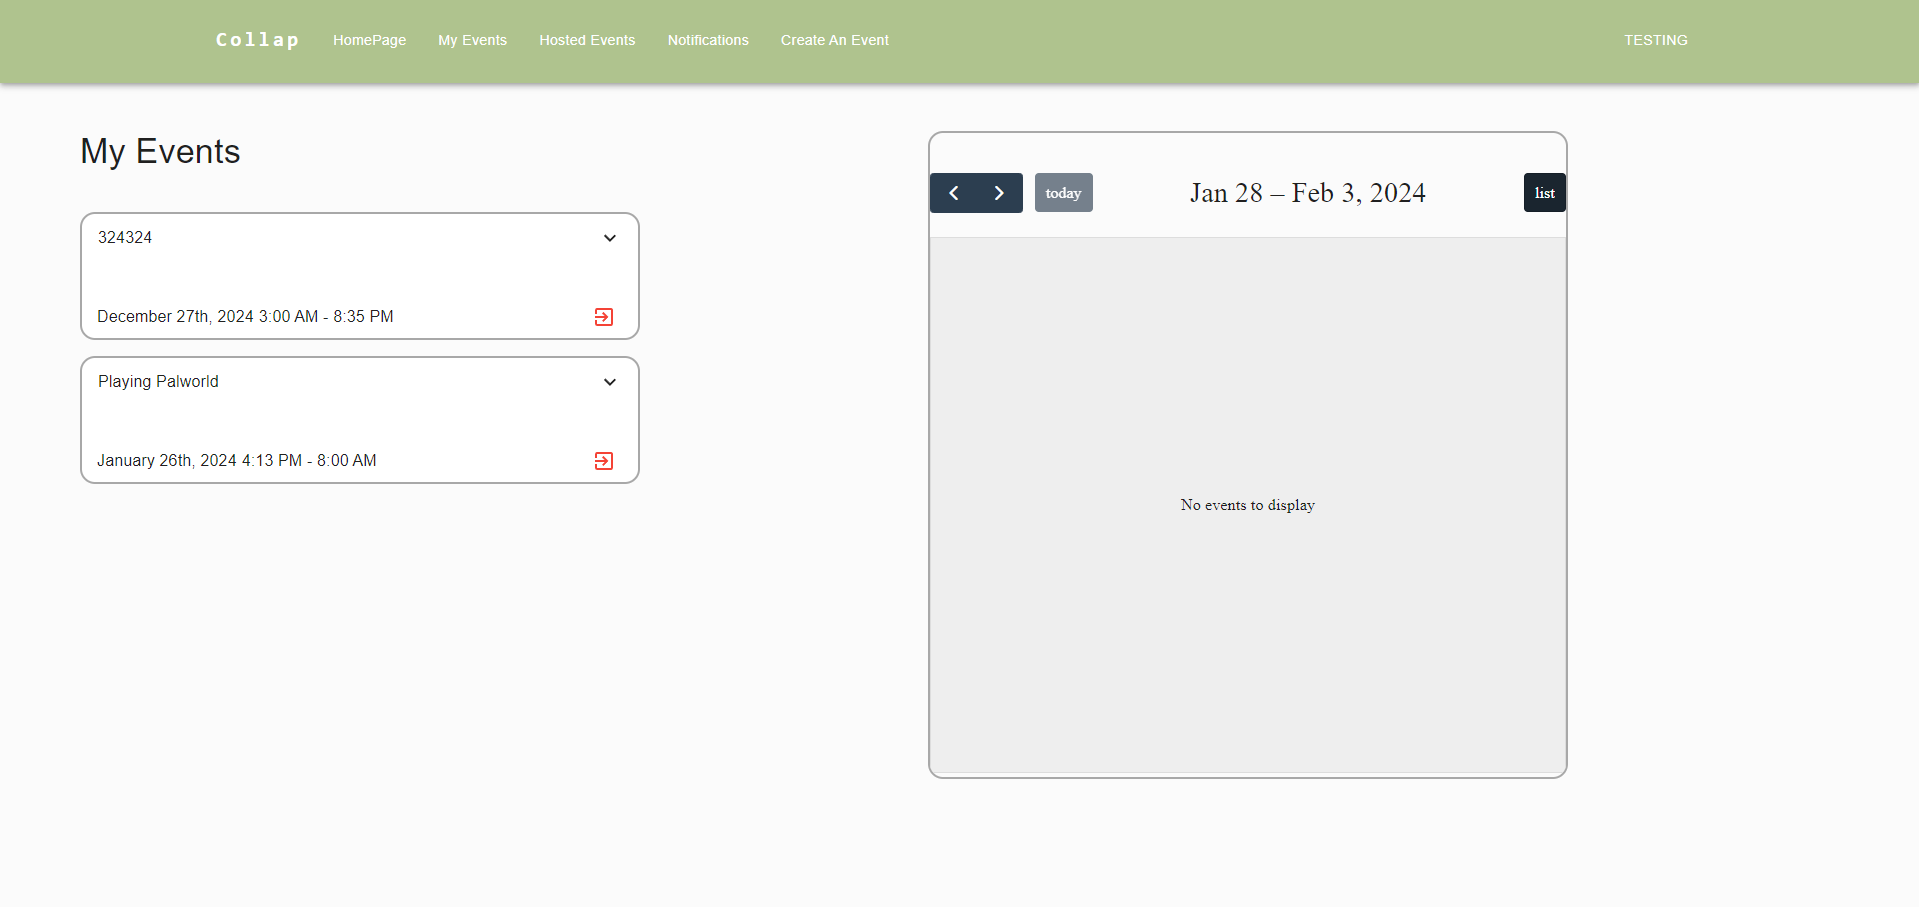
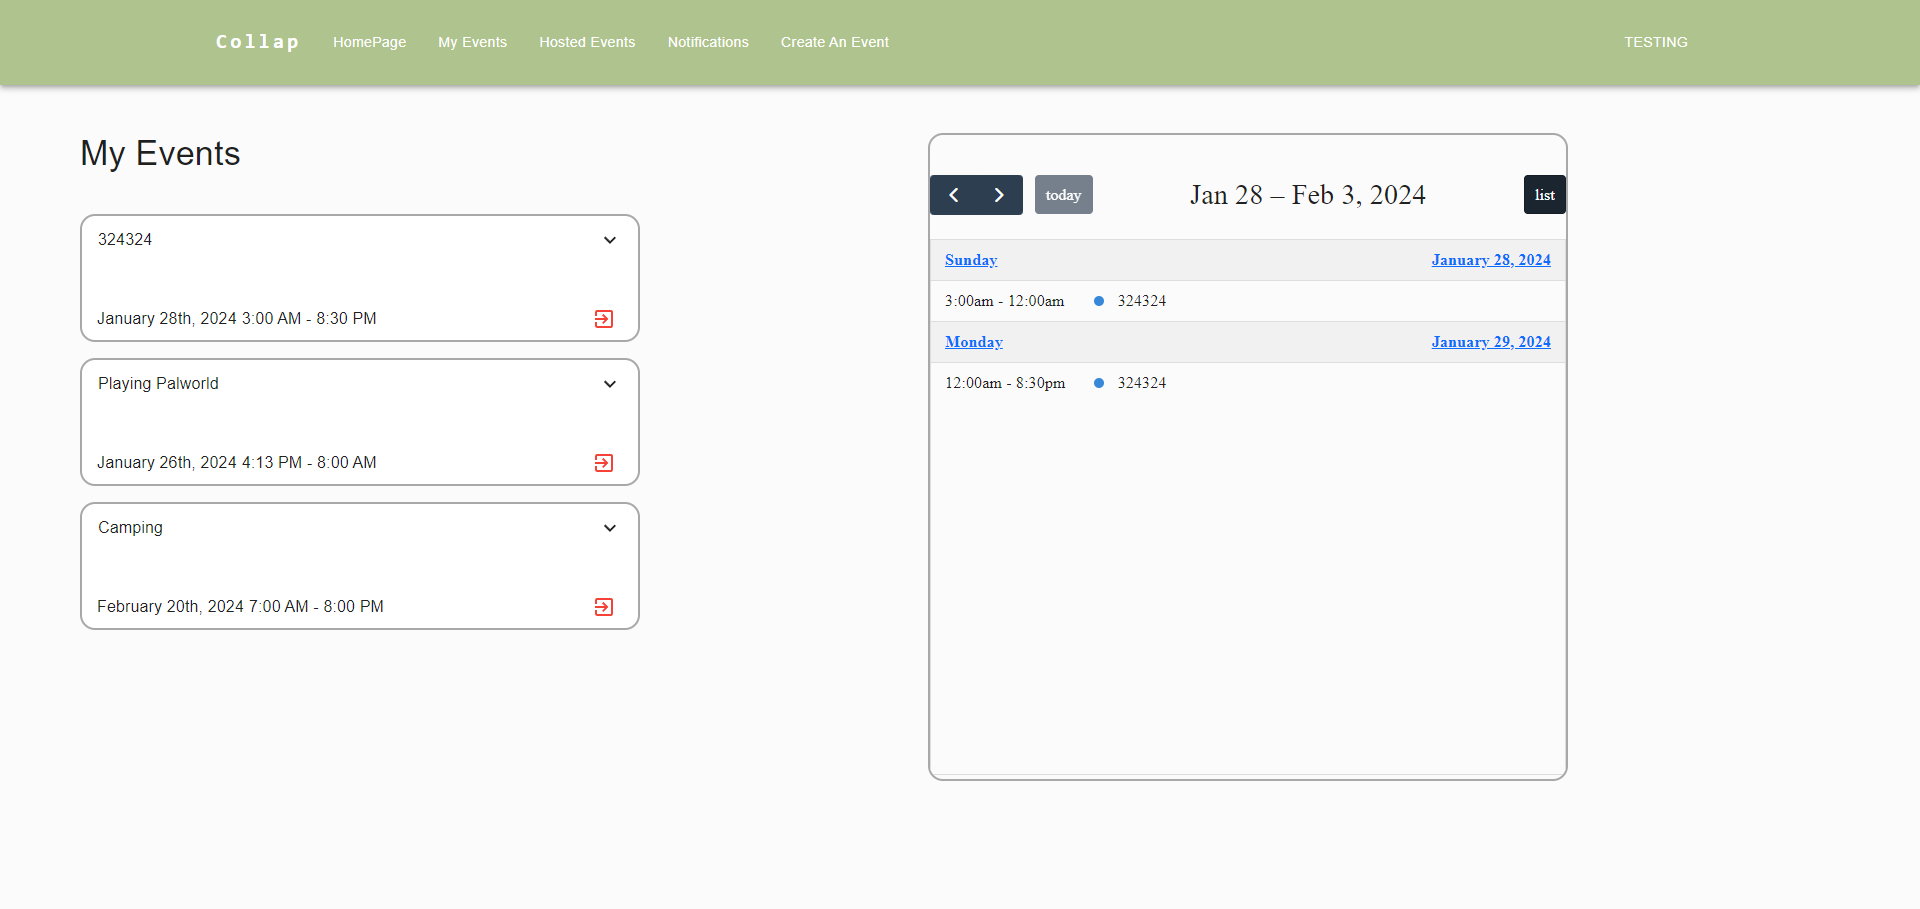
fixing

diff --git a/README.md b/README.md
@@ -54,16 +54,44 @@ There is also a simple calendar feature that will display a event's primary date
 
 ![documentation_pics](./documentation_pics/myevent.png)
 
-This page simply shows specific information about the events you are in participating in, you may click the drop down button to view the participants of that event. On the right you will be provided a list of events that are occuring that week.
+This page simply shows specific information about the events you are in participating in, you may click the drop down button to view the participants of that event. On the right you will be provided a list of events that are occuring that week. You may also leave an event using the red button on each event.
 
 ### Notifications
 
 ![documentation_pics](./documentation_pics/notifications.png)
 
+In the Notifications page, the notifications are separated into actions and simple information notifications. As you can see there is no dismiss button on the vote button, which forces the participant to provide dates to remove it. Theres also an invite notification that will be classified as an action, where you will be prompted to insert multiple days you are available. Simple information notifications will include being removed from an event, a new user joining an event you are in, etc.
+
 ### Hosted Events
 
 ![documentation_pics](./documentation_pics/hostedevent.png)
 
+The Hosted Event page is where hosts may access information and handle moving parts of an event. There are a lot of features to be useful to the host.
+
+#### Date Manipulation
+
+The current primary date and time for the event is already displayed, but there is a box that will allow you to change that information. The main part is the dropdown list with all the available dates for the event. The next thing is the date field where you can change the event end date, and the third is a time field where you can adjust the exact time if needed. Not all the fields need to be filled out to update the primary details.
+
+The available dates list is all the dates that were suggested through each participant when joining. The host can choose to delete any of the events as long as its the current primary date (in that case it will be grayed out and won't be selectable). There is also a manual date inserter that the host can use at his/her discretion.
+
+#### Voting
+
+The voting feature for this application will handle only dates due to simplicity sake. Including time and event duration is a little overwhelming and falls beyond the scope of this project's purpose. By default each event does not require votes, but a host can decide to push the objective to vote with a button. Once votes are sent in, we get a counter to see how many of the participants vote, and a barchart displaying them.
+
+Below the barchart is a section that recommends dates based on the available days each participant is required to give. Days where every user can attend the event are followed by green text, and dates where some users cannot make will have red text with a list of who is unable to attend. The decision to add this section, which may seem identical to the voting dates feature, is influence by a very important distinction between availability and preference. A date that is most voted on might not be the ideal choice when half of the participants are UNABLE to attend. Obviously if these two conditions, availability and preference, are the same, this addition may not be as useful.
+
+
+#### Participants
+
+This section displays users and an option to kick them from the event. There is also a textfield at the bottom which will send an invite to the specified user.
+
+#### Delete Button
+
+Upon pressing the "Delete Event" button, there will be a confirmation form that pops up where you can confirm your choice to delete the event.  
+
 ### Create Event
 
 ![documentation_pics](./documentation_pics/createevent.png)
+
+The information that is needed to create an event is prompted here. Event Name, Primary Date and Time, Participants, and your own availability. Once completing the form correctly, it will direct you to the homepage, and the event information will shown in appropriate pages (My Events and Hosted Events)
+
